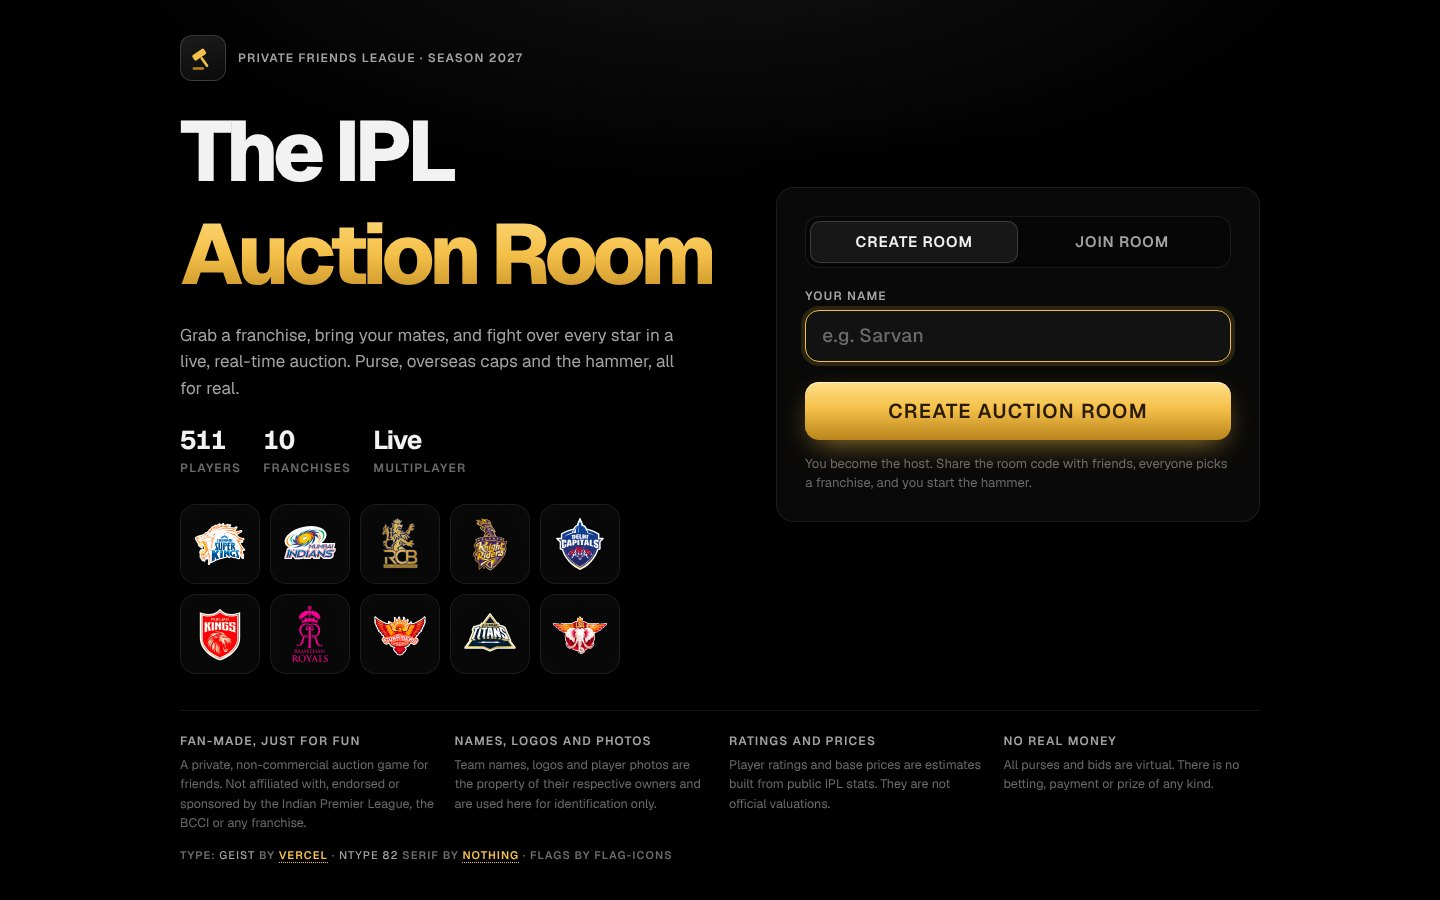
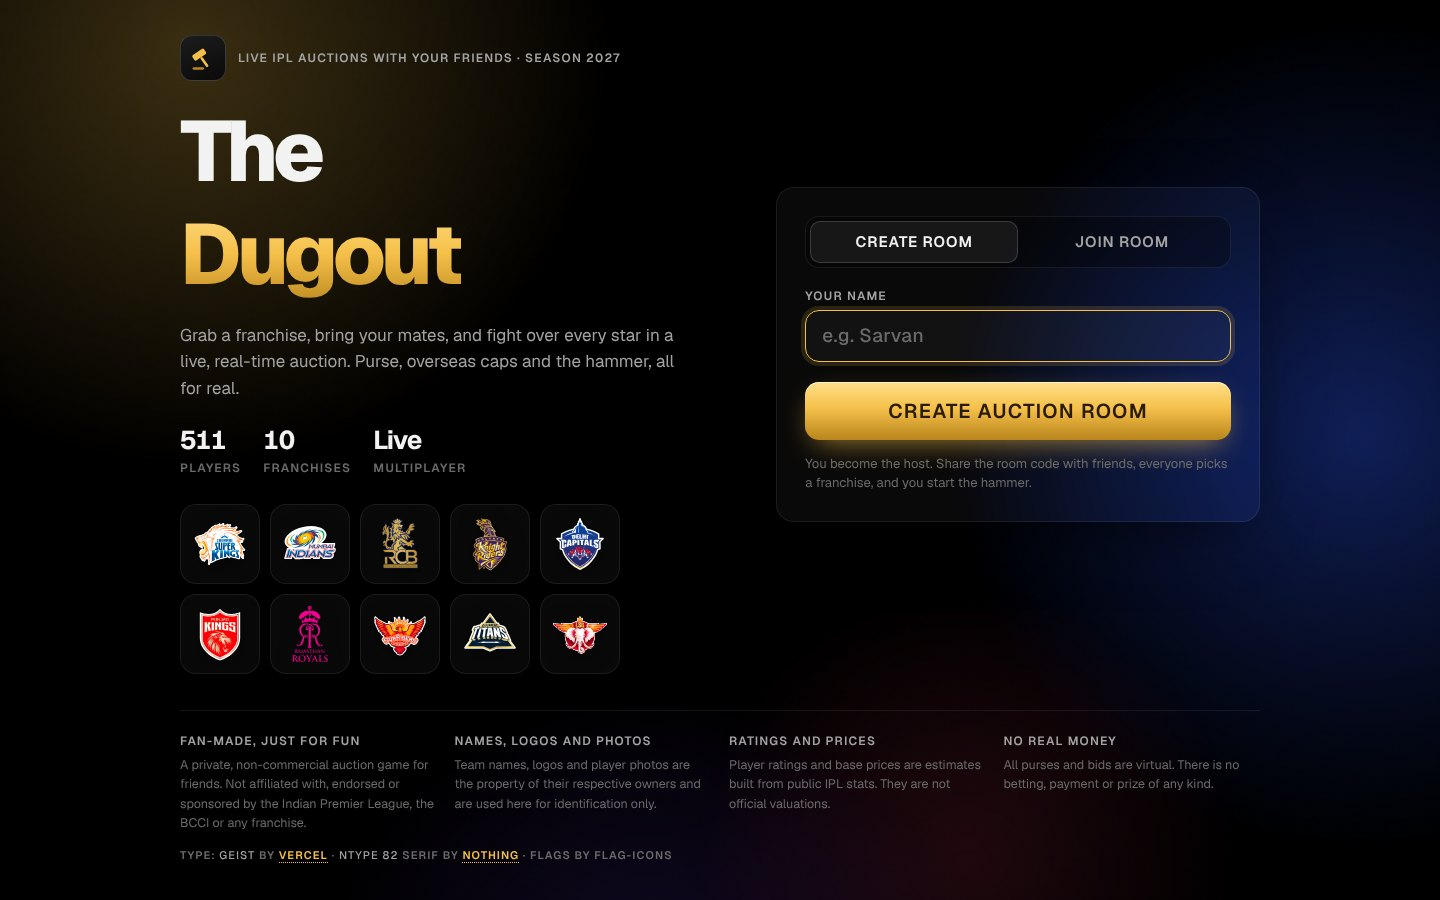
Rebrand to The Dugout
- Home hero, browser title, Open Graph/X tags, app manifest and home-screen name
- Room invite previews: 'Sarvan invited you to an IPL auction on The Dugout'
- Share cards, WhatsApp squad text and the invite share text
- New link-preview images and README banner; README copy and home screenshot updated
- Health endpoint service name; repository, package and Render service names unchanged

Claude-Session: https://claude.ai/code/session_01S61cysmRTP1wQY8ExsHB9R

diff --git a/client/index.html b/client/index.html
@@ -3,7 +3,7 @@
   <head>
     <meta charset="UTF-8" />
     <meta name="viewport" content="width=device-width, initial-scale=1, viewport-fit=cover" />
-    <title>The IPL Auction Room · Live multiplayer IPL auction with friends</title>
+    <title>The Dugout · Live IPL auctions with your friends</title>
     <meta name="description" content="Grab a franchise, invite your friends with a room code and bid live for 511 IPL players. Squad rules, Playing XI, share cards. Free, no sign-up." />
     <meta name="theme-color" content="#000000" />
     <meta name="color-scheme" content="dark" />
@@ -11,21 +11,21 @@
 
     <!-- Open Graph (WhatsApp, Facebook, Instagram, LinkedIn, Discord) -->
     <meta property="og:type" content="website" />
-    <meta property="og:site_name" content="The IPL Auction Room" />
+    <meta property="og:site_name" content="The Dugout" />
     <meta property="og:url" content="https://ipl.sarvankumar.in/" />
-    <meta property="og:title" content="The IPL Auction Room" />
+    <meta property="og:title" content="The Dugout · Live IPL auctions with your friends" />
     <meta property="og:description" content="Grab a franchise, invite your friends and fight for every star, live. Free, no sign-up." />
     <meta property="og:image" content="https://ipl.sarvankumar.in/og.jpg" />
     <meta property="og:image:secure_url" content="https://ipl.sarvankumar.in/og.jpg" />
     <meta property="og:image:type" content="image/jpeg" />
     <meta property="og:image:width" content="1200" />
     <meta property="og:image:height" content="630" />
-    <meta property="og:image:alt" content="The IPL Auction Room: live multiplayer IPL auction" />
+    <meta property="og:image:alt" content="The Dugout: live multiplayer IPL auctions with friends" />
     <meta property="og:locale" content="en_IN" />
 
     <!-- X / Twitter -->
     <meta name="twitter:card" content="summary_large_image" />
-    <meta name="twitter:title" content="The IPL Auction Room" />
+    <meta name="twitter:title" content="The Dugout · Live IPL auctions with your friends" />
     <meta name="twitter:description" content="Grab a franchise, invite your friends and fight for every star, live." />
     <meta name="twitter:image" content="https://ipl.sarvankumar.in/og.jpg" />
 
@@ -37,13 +37,13 @@
     <meta name="apple-mobile-web-app-capable" content="yes" />
     <meta name="mobile-web-app-capable" content="yes" />
     <meta name="apple-mobile-web-app-status-bar-style" content="black-translucent" />
-    <meta name="apple-mobile-web-app-title" content="IPL Auction" />
+    <meta name="apple-mobile-web-app-title" content="The Dugout" />
 
     <!-- Preload what the first screen needs -->
     <link rel="preload" href="/fonts/Geist-Variable.woff2" as="font" type="font/woff2" crossorigin />
   </head>
   <body>
-    <noscript>The IPL Auction Room needs JavaScript to run.</noscript>
+    <noscript>The Dugout needs JavaScript to run.</noscript>
     <div id="root"></div>
     <script type="module" src="/src/main.tsx"></script>
   </body>

diff --git a/server/index.js b/server/index.js
@@ -39,7 +39,7 @@ function health(_req, res) {
   res.set('Cache-Control', 'no-store, max-age=0');
   res.json({
     status: 'ok',
-    service: 'ipl-auction',
+    service: 'the-dugout',
     uptimeSeconds: Math.round((Date.now() - STARTED) / 1000),
     rooms: rooms.size,
     liveAuctions: live,
@@ -70,7 +70,7 @@ app.get('/room/:code', (req, res, next) => {
   const r = rooms.get(code);
   const host = r?.members.get(r.hostId)?.name;
   const taken = r ? [...r.members.values()].filter((m) => m.team).length : 0;
-  const title = host ? `${host} invited you to an IPL auction` : 'Join my IPL auction';
+  const title = host ? `${host} invited you to an IPL auction on The Dugout` : 'Join my IPL auction on The Dugout';
   const desc = r
     ? `Room ${code} · ${taken}/10 franchises taken. Pick a team, bid live and build your Playing XI. Free, no sign-up.`
     : `Room ${code}. Pick a franchise, bid live against your friends and build your Playing XI. Free, no sign-up.`;
@@ -239,4 +239,4 @@ setInterval(() => {
   }
 }, 60e3);
 
-server.listen(PORT, () => console.log(`IPL Auction server on http://localhost:${PORT}`));
+server.listen(PORT, () => console.log(`The Dugout server on http://localhost:${PORT}`));

diff --git a/client/src/lib/shareCard.ts b/client/src/lib/shareCard.ts
@@ -200,7 +200,7 @@ export async function renderXICard(team: TeamState, ids: number[], ownerName: st
   ctx.fillText(SITE, W - 56, H - 74);
   ctx.fillStyle = '#6b6b6b';
   ctx.font = '500 18px Geist, sans-serif';
-  ctx.fillText(`IPL Auction Room · Room ${roomCode}`, W - 56, H - 46);
+  ctx.fillText(`The Dugout · Room ${roomCode}`, W - 56, H - 46);
 
   return new Promise((resolve, reject) => canvas.toBlob((b) => (b ? resolve(b) : reject(new Error('render failed'))), 'image/png'));
 }
@@ -344,7 +344,7 @@ export async function renderSquadCard(team: TeamState, ownerName: string, roomCo
   ctx.fillText(SITE, W - side, H - 56);
   ctx.fillStyle = 'rgba(255,255,255,0.55)';
   ctx.font = '500 16px Geist, sans-serif';
-  ctx.fillText(`IPL Auction Room · Room ${roomCode}`, W - side, H - 32);
+  ctx.fillText(`The Dugout · Room ${roomCode}`, W - side, H - 32);
 
   return new Promise((resolve, reject) => canvas.toBlob((b) => (b ? resolve(b) : reject(new Error('render failed'))), 'image/png'));
 }

diff --git a/client/src/screens/Home.tsx b/client/src/screens/Home.tsx
@@ -32,10 +32,10 @@ export default function Home({ initialCode }: { initialCode: string | null }) {
         <motion.div initial={{ opacity: 0, y: 20 }} animate={{ opacity: 1, y: 0 }} transition={{ duration: 0.5 }}>
           <div className="brand-mark">
             <div className="gavel"><GavelIcon size={28} /></div>
-            <div className="eyebrow">Private Friends League · Season 2027</div>
+            <div className="eyebrow">Live IPL auctions with your friends · Season 2027</div>
           </div>
           <h1 className="hero-title display">
-            The IPL<br /><span className="gold-grad">Auction Room</span>
+            The<br /><span className="gold-grad">Dugout</span>
           </h1>
           <p className="hero-sub">
             Grab a franchise, bring your mates, and fight over every star in a live, real-time auction. Purse, overseas caps and the hammer, all for real.

diff --git a/client/src/screens/Lobby.tsx b/client/src/screens/Lobby.tsx
@@ -35,9 +35,9 @@ export default function Lobby({ room }: { room: RoomState }) {
   }
 
   async function share() {
-    const text = `Join my IPL auction! Room code ${room.code}`;
+    const text = `Join my IPL auction on The Dugout! Room code ${room.code}`;
     try {
-      if (navigator.share) await navigator.share({ title: 'IPL Auction Room', text, url: link });
+      if (navigator.share) await navigator.share({ title: 'The Dugout', text, url: link });
       else { await navigator.clipboard.writeText(`${text}: ${link}`); toast('Invite link copied'); }
     } catch {}
   }

diff --git a/client/src/screens/Results.tsx b/client/src/screens/Results.tsx
@@ -44,7 +44,7 @@ export default function Results({ room }: { room: RoomState }) {
   }, [mode]);
 
   function summary() {
-    const lines = [`IPL Auction Room ${room.code} — Final squads`, ''];
+    const lines = [`The Dugout · Room ${room.code} · Final squads`, ''];
     ranked.forEach((r, i) => {
       const owner = room.members.find((m) => m.team === r.t.code)?.name;
       lines.push(`${i + 1}. ${r.t.code} (${owner}) · strength ${r.score} · spent ${money(r.spent)}`);

diff --git a/README.md b/README.md
@@ -1,9 +1,9 @@
 <p align="center">
-  <img src="docs/images/banner.jpg" alt="The IPL Auction Room" width="100%" />
+  <img src="docs/images/banner.jpg" alt="The Dugout" width="100%" />
 </p>
 
 <p align="center">
-  <strong>A real-time, multiplayer IPL auction for friends.</strong><br />
+  <strong>The Dugout: real-time, multiplayer IPL auctions with your friends.</strong><br />
   Create a room, share the code, pick a franchise and fight for every player live, then build and share your Playing XI.
 </p>
 
@@ -39,7 +39,7 @@
 
 ## Overview
 
-The IPL Auction Room recreates the tension of the IPL auction table for a group of friends. One person hosts, everyone else joins with a five-letter room code, and each player takes one of the ten franchises. Players come up in sets, the clock resets on every bid, and the hammer falls when the clock runs out. Empty franchises can be handed to computer players, so a full ten-team auction works even with two people.
+The Dugout recreates the tension of the IPL auction table for a group of friends. One person hosts, everyone else joins with a five-letter room code, and each player takes one of the ten franchises. Players come up in sets, the clock resets on every bid, and the hammer falls when the clock runs out. Empty franchises can be handed to computer players, so a full ten-team auction works even with two people.
 
 When the auction ends, every owner arranges a Playing XI on a cricket ground, gets suggestions to improve it, locks it in and shares the result as an image.
 
@@ -98,7 +98,7 @@ When the auction ends, every owner arranges a Playing XI on a cricket ground, ge
 - Copy every squad as text for a group chat, and play again in the same room with the same friends.
 
 **Sharing and install**
-- Rich link previews: the site shares with a designed 1200 x 630 card, and room links preview as a personal invite ("Sarvan invited you to an IPL auction · Room ABCDE") with live franchise count.
+- Rich link previews: the site shares with a designed 1200 x 630 card, and room links preview as a personal invite ("Sarvan invited you to an IPL auction on The Dugout") with live franchise count.
 - Installable on phones: add to the home screen for a full-screen app with its own icon.
 
 ## How a game works
